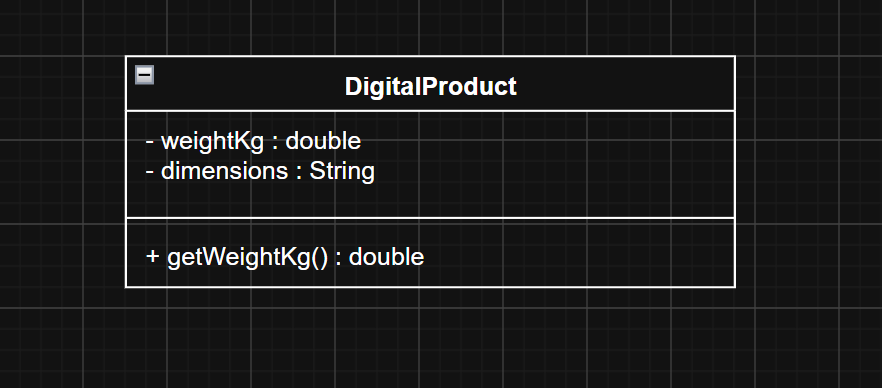
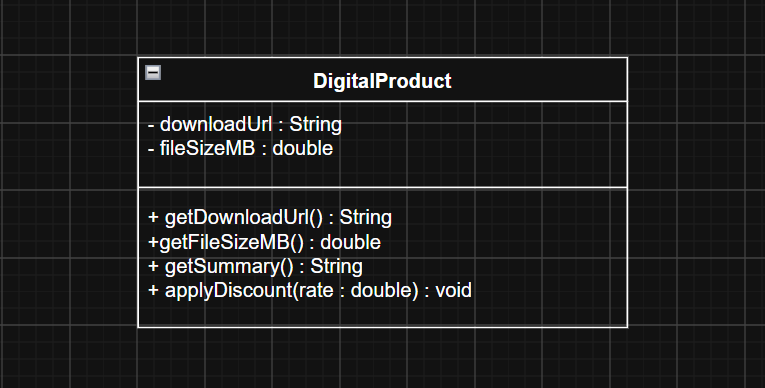
Tutorial 5: polymorphism — >> getSummary override and Discountable interface with Discountable interface UML diagram and Updated Product,Digital Product and Physical Product UML diagrams

Changed region(s): [[0.0, 0.0, 1.0, 1.0]]

diff --git a/src/main/java/uk/ac/westminster/products_api/DigitalProduct.java b/src/main/java/uk/ac/westminster/products_api/DigitalProduct.java
@@ -1,8 +1,9 @@
 package uk.ac.westminster.products_api;
 
-public class DigitalProduct extends Product{
-    private String downloadUrk;
+public class DigitalProduct extends Product  {
+    private String downloadUrl;
     private double fileSizeMB;
+    private double discountedPrice;
 
     public DigitalProduct(){
 
@@ -10,17 +11,47 @@ public class DigitalProduct extends Product{
 
     public DigitalProduct(Long id,String name,double price,String downloadUrk, double fileSizeMB){
         super(id ,name ,price);
-        this.downloadUrk = downloadUrk;
+        this.downloadUrl = downloadUrk;
         this.fileSizeMB = fileSizeMB;
     }
 
-    public String getDownloadUrk() {
-
-        return downloadUrk;
+    public String getDownloadUrl() {
+        return downloadUrl;
     }
-    public double getFileSizeMB(){
 
+    public void setDownloadUrl(String downloadUrl) {
+        this.downloadUrl = downloadUrl;
+    }
+
+    public double getFileSizeMB(){
         return fileSizeMB;
+    }
+
+    public void setFileSizeMB(double fileSizeMB){
+        this.fileSizeMB = fileSizeMB;
+    }
+
+    @Override
+    public  String getSummary(){
+        return "Product Name:"+getName()
+                +"|Price:  "+getPrice()
+                +"|Download Urk: "+getDownloadUrl()
+                +"|File Size MB: "+getFileSizeMB();
+    }
+
+
+    @Override
+    public void applyDiscount(double rate) {
+        // no shipping: full rate applies
+        discountedPrice = getPrice() * (1 -rate);
+    }
+
+    public double getDiscountedPrice() {
+        return discountedPrice;
+    }
+
+    public void setDiscountedPrice(double discountedPrice) {
+        this.discountedPrice = discountedPrice;
     }
 
 }

diff --git a/src/main/java/uk/ac/westminster/products_api/Product.java b/src/main/java/uk/ac/westminster/products_api/Product.java
@@ -1,38 +1,47 @@
 package uk.ac.westminster.products_api;
-
-public class Product {
+//add jackson annotation from week 3 or 4 sides spring boot
+public abstract class Product {
     private Long id;
     private String name;
     private double price;
 
-    public Product(){}
-
-    public Product(Long id,String name,double price){
-        this.id=id;
-        this.name=name;
-        this.price=price;
-    }
-    public Long getId(){
-        return id;
-    }
-    public String getName(){
-        return name;
+    public Product() {
     }
 
-    public double getPrice(){
-        return price;
-    }
-
-    public void setId(Long id){
+    public Product(Long id, String name, double price) {
         this.id = id;
-    }
-    public void setName(String name){
         this.name = name;
-    }
-    public void setPrice(double price){
         this.price = price;
     }
 
+    public Long getId() {
+        return id;
+    }
 
+    public String getName() {
+        return name;
+    }
+
+    public double getPrice() {
+        return price;
+    }
+
+    public void setId(Long id) {
+        this.id = id;
+    }
+
+    public void setName(String name) {
+        this.name = name;
+    }
+
+    public void setPrice(double price) {
+        this.price = price;
+    }
+
+    public String getSummary() {
+        return "Product Name:" + getName() + "|Price:  " + getPrice();
+    }
+
+    public abstract void applyDiscount(double rate);
 
 }

diff --git a/src/main/java/uk/ac/westminster/products_api/PhysicalProduct.java b/src/main/java/uk/ac/westminster/products_api/PhysicalProduct.java
@@ -1,8 +1,11 @@
 package uk.ac.westminster.products_api;
 
-public class PhysicalProduct extends Product {
+import java.io.Serializable;
+
+public class PhysicalProduct extends Product implements Discountable {
     private double weightKg;
     private String dimensions;
+    private double discountedPrice;
 
     public PhysicalProduct() {}
 
@@ -17,9 +20,41 @@ public class PhysicalProduct extends Product {
         return weightKg;
     }
 
+    public void setWeightKg(double weightKg) {
+        this.weightKg = weightKg;
+    }
+
     public String getDimensions() {
         return dimensions;
     }
+
+    public void setDimensions(String dimensions) {
+        this.dimensions = dimensions;
+    }
+
+    @Override
+    public  String getSummary(){
+        return "Product Name:"+getName()
+                +"|Price:  "+getPrice()
+                +"|Weight Kg: "+getWeightKg()
+                +"|Dimensions: "+getDimensions();
+    }
+
+    @Override
+    public void applyDiscount(double rate){
+        double capped = Math.min(rate, 0.20);
+        discountedPrice = getPrice()* (1 -capped);
+    }
+
+    public double getDiscountedPrice(){
+
+        return getDiscountedPrice();
+    }
+
+    public void setDiscountedPrice(double discountedPrice) {
+        this.discountedPrice = discountedPrice;
+    }
+
 
 
 }

diff --git a/src/main/java/uk/ac/westminster/products_api/ProductService.java b/src/main/java/uk/ac/westminster/products_api/ProductService.java
@@ -69,18 +69,15 @@ public class ProductService {
                 .toList();
     }
 
+    public List<String> getAllSummaries() {
+        List<String> summaries = new ArrayList<>();
+        for (Product product : products) {
+            String summary = product.getSummary();
+            summaries.add(summary);
+        }
+        return summaries;
 
 
-
-
-
-
-
-
-
-
-
-
-
+    }
 
 }

diff --git a/src/main/java/uk/ac/westminster/products_api/Discountable.java b/src/main/java/uk/ac/westminster/products_api/Discountable.java
@@ -1,0 +1,9 @@
+package uk.ac.westminster.products_api;
+
+public interface Discountable {
+
+    public abstract void applyDiscount(double rate);
+
+    double getDiscountedPrice();
+
+}
